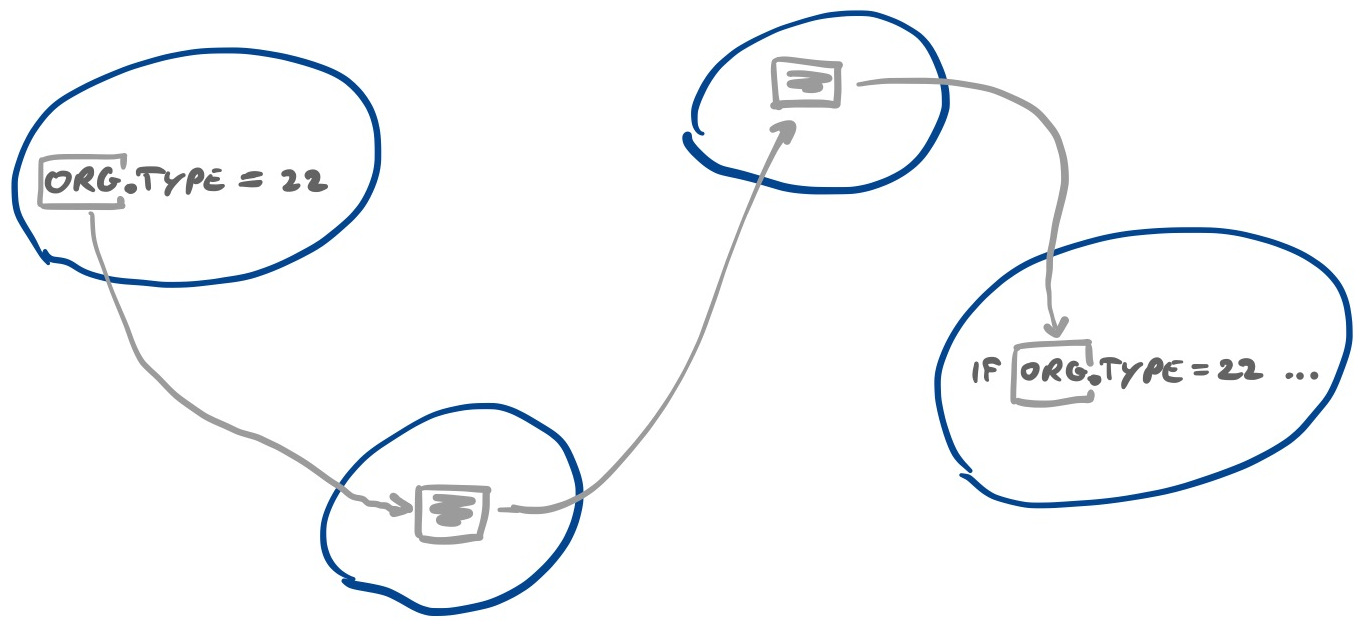
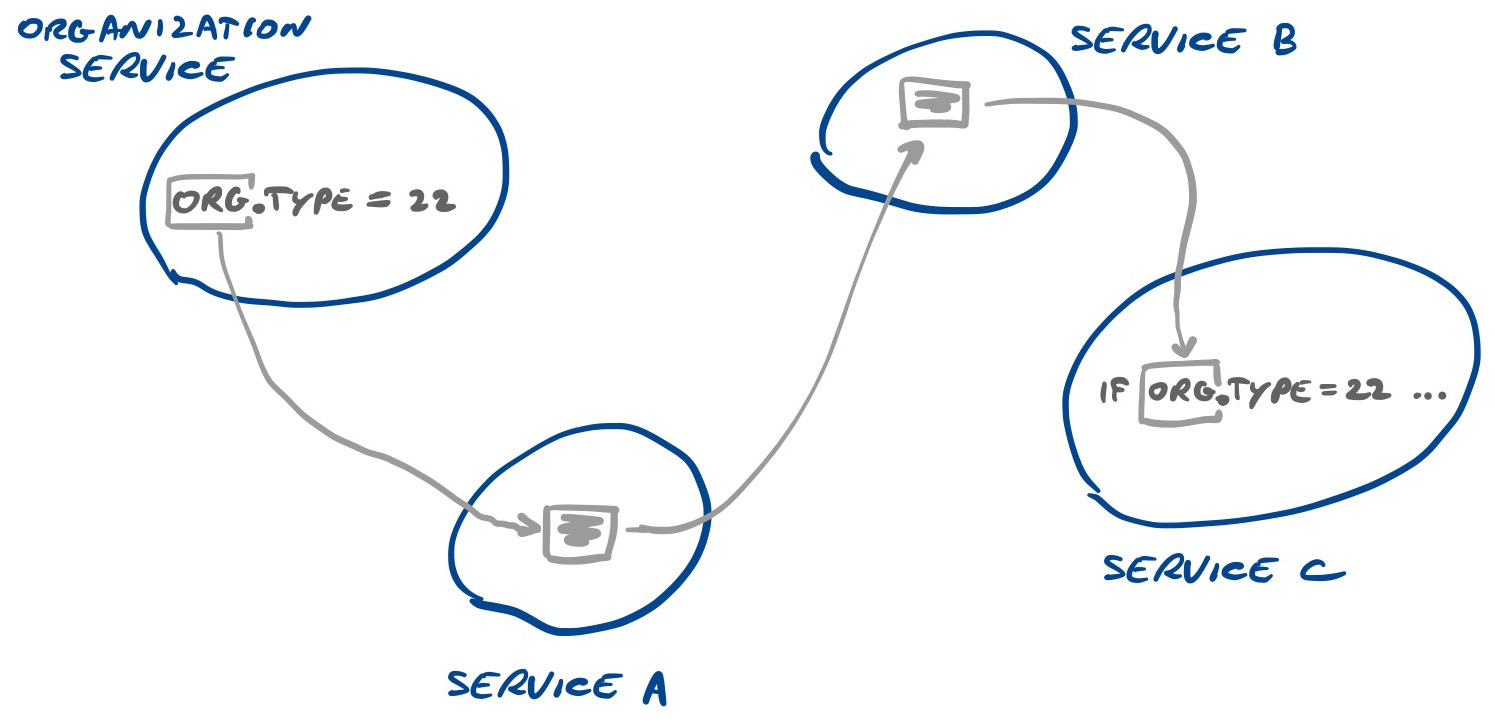
update connascence by value

diff --git a/_drafts/connascence-value.md b/_drafts/connascence-value.md
@@ -16,27 +16,25 @@ Connascence is a model for reasoning about coupling and defines three dimensions
 ![connascence in three dimensions, from green to red](/attachments/blogposts/2026/connascence/slide-19-degree.png)
 {: class="post-image post-image-50" }
 
-
 ## Connascence by Value
 
 Connascence by Value means two elements are coupled because they need to agree on a specific value. Several values in different parts of the code or in different systems need to change together, otherwise the correctness of the system will break. 
 
 ![connascence by value](/attachments/blogposts/2026/connascence/slide-14-value.png)
+{: class="post-image post-image-50" }
 
-If the Organization Management service sets the type of an organization to a specific number, e.g. 22, other services that use organizations will know and use this specific value as well, e.g. in an if statement in the picture below.
+Let's look at an example, shown in the picture below. If the Organization Management service sets the type of an organization to a specific number, e.g. 22, other services that use organizations like service C will need know and use this specific value as well. The two services are coupled through that specific value. The services that pass on the organization data (A and B) might also be accidentally coupled if they know about the organization type values when passing on the data.
 
 ![one service sets the value 22, the data passes through other services, and some other service checks if the value is 22](/attachments/blogposts/2026/connascence/cov-org-type.jpg)
 
-Connascence by Value is somewhat similar to Connascence by Meaning, but the latter is more about meaning, conventions, usage, interpretation of values, while the Connascence by Value is about specific values. It can be more tricky, especially if the values are used in different systems and codebases, e.g. a hard coded '22' in Java code and a value 22 somewhere in a database column.
+Connascence by Value is somewhat similar to Connascence by Meaning, but the latter is about meaning, conventions, usage, interpretation of values, while the Connascence by Value is about coupling on a specific value. Coupling on a specific value can be more tricky, especially if the values are used in different systems and codebases, e.g. a hard coded '22' in Java code and a value 22 somewhere in a database column.
 
 ## Tackling Connascence by Value
 
-If the elements are close enough (in the same codebase), we have a few options to reduce the pain:
-- We can extract the special value into constant. This reduces the connascence to Connascence by Name. If the connascence is between different code bases using the same language, we can investigate moving the value references in a shared library.
-- Sometimes we can generalize the code that uses the value, and inject the special value instead of hard-coding it. This reduces it to Connascence by Type or Meaning.
-- We can bring all code that knows the special value close together, e.g. in one class, and reduce it to Connascence by Meaning
-
-
+If the coupled elements are close enough to each other (in the same codebase), there are some options to reduce the pain:
+- We can extract the special value into **constant** and use the constant everywhere. This reduces it to Connascence by Name. If the connascence is between different code bases using the same language, we can investigate moving the value references in a shared library.
+- Sometimes we can generalize the code using the value, and **inject the value** instead of hard-coding it. This reduces it to Connascence by Type or Meaning.
+- We can bring all code that knows the special value close together, e.g. by **encapsulating** it in a single class, reducing it to Connascence by Meaning.
 
 ## What's next
 
@@ -47,7 +45,7 @@ This post is part of a series on connascence and coupling. In the next post, we 
 - [Part 3 - Connascence by Meaning](/2026/05/21/connascence-meaning)
 - [Part 4 - Connascence by Position](/2026/05/29/connascence-position)
 - [Part 5 - Connascence by Algorithm](/2026/06/03/connascence-algorithm)
-- [Part 6 - Connascence by Execution Order]()
+- [Part 6 - Connascence by Execution Order](/2026/06/08/connascence-execution-order)
 - [Part 7 - Connascence by Timing]()
 - *Part 8 - Connascence by Value*
 - Part 9 - Connascence by Identity